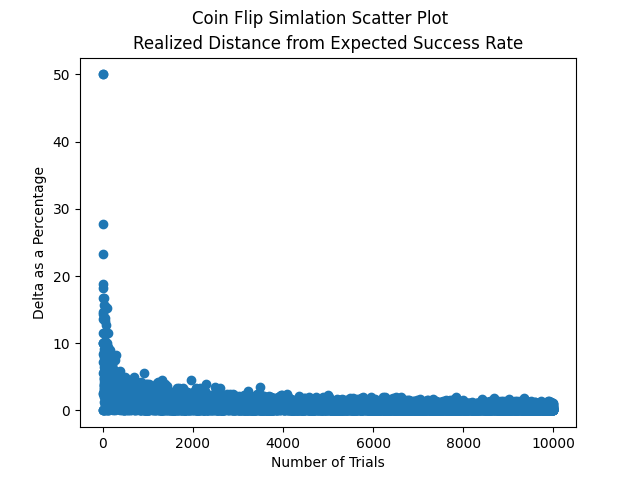
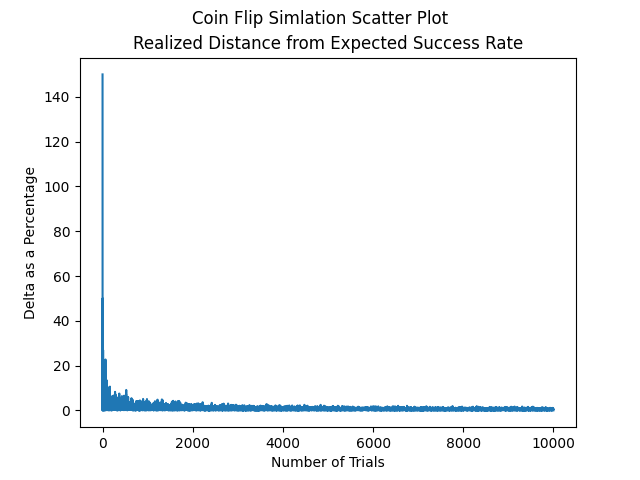
Changed Scatterplot to Line plot

diff --git a/main.py b/main.py
@@ -10,7 +10,7 @@ for i in range(0, len(trials)):
     outcome_list.append(coin_flips.trial_sequence(trials[i], success_rate))
 
 #generate outcome plot
-plt.scatter(*zip(*outcome_list))
+plt.plot(*zip(*outcome_list))
 plt.suptitle('Coin Flip Simlation Scatter Plot')
 plt.title('Realized Distance from Expected Success Rate')
 plt.xlabel('Number of Trials')
